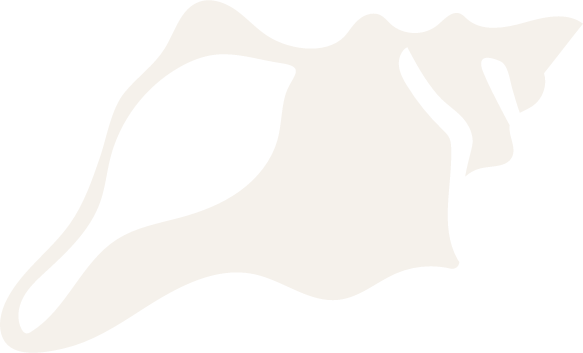
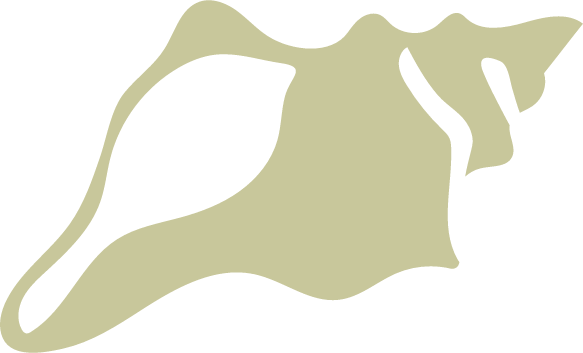
footer add.

diff --git a/src/components/Footer.jsx b/src/components/Footer.jsx
@@ -1,11 +1,66 @@
-import React from 'react';
-
+import logo from "../assets/img/Vector.png";
 const Footer = () => {
-    return (
+  return (
+    <div className="bg-[#DDE4B8] ">
+      <div className="w-11/12 mx-auto grid grid-cols-2 py-20">
         <div>
-            footer
+          <h1 className="font-bold text-7xl text-[#848239]">
+            CHaSKIX <br /> STUDIOS
+          </h1>
+          <p className="text-[#848239] text-xl pt-1.5">
+            INSPIRED BYTHE SPIRIT OFTHE CHaSQUIS
+          </p>
+          <div class="mt-8 space-y-2">
+            <p class="uppercase font-semibold text-[#848239] tracking-wide">
+              Keep up with the tribe
+            </p>
+            <div class="flex">
+              <input
+                type="email"
+                placeholder="Your email →"
+                class="px-4 py-2 border border-[#848239] rounded-2xl bg-transparent placeholder-[#848239] focus:outline-none w-64"
+              />
+            </div>
+          </div>
         </div>
-    );
+        <div class="relative ">
+          <p class="text-[#848239] text-lg leading-relaxed ">
+            The name "Chaski" honors the legendary Andean messengers, known for
+            their strength, agility, and resourcefulness. Just like the
+            Chasquis, we help solopreneurs and service providers move faster,
+            communicate more effectively, and create lasting impact.
+          </p>
+
+          <img
+            src={logo}
+            alt="abstract shape"
+            class="absolute left-28 pt-4 w-96 opacity-30 pointer-events-none"
+          />
+        </div>
+      </div>
+      <footer class="bg-[#848239] text-[#F5F1EB] py-4">
+        <div class="w-11/12 mx-auto px-6 flex flex-col md:flex-row justify-between text-sm">
+          <div class="flex space-x-6 mb-2 md:mb-0">
+            <a href="#" class="hover:underline">
+              INSTAGRAM
+            </a>
+            <a href="#" class="hover:underline">
+              TIKTOK
+            </a>
+          </div>
+          <div class="flex space-x-6">
+            <a href="#" class="hover:underline">
+              PRIVACY
+            </a>
+            <a href="#" class="hover:underline">
+              TERMS
+            </a>
+            <span>©2025 CHASKIX</span>
+          </div>
+        </div>
+      </footer>
+    </div>
+  );
 };
 
 export default Footer;
